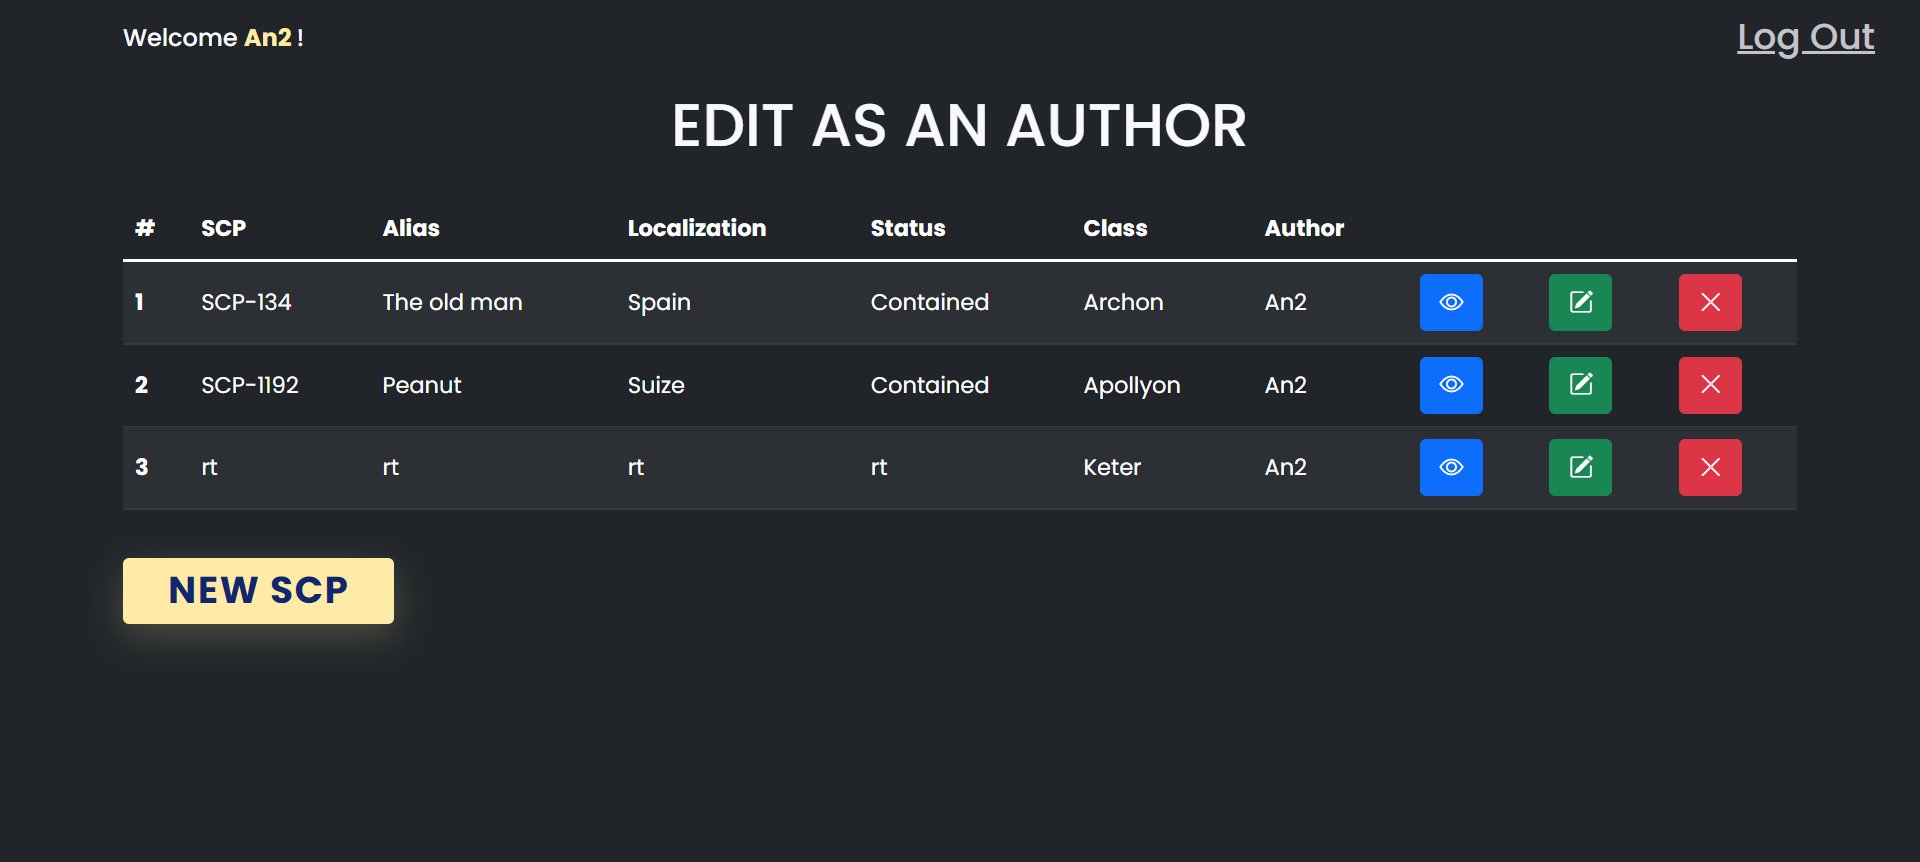
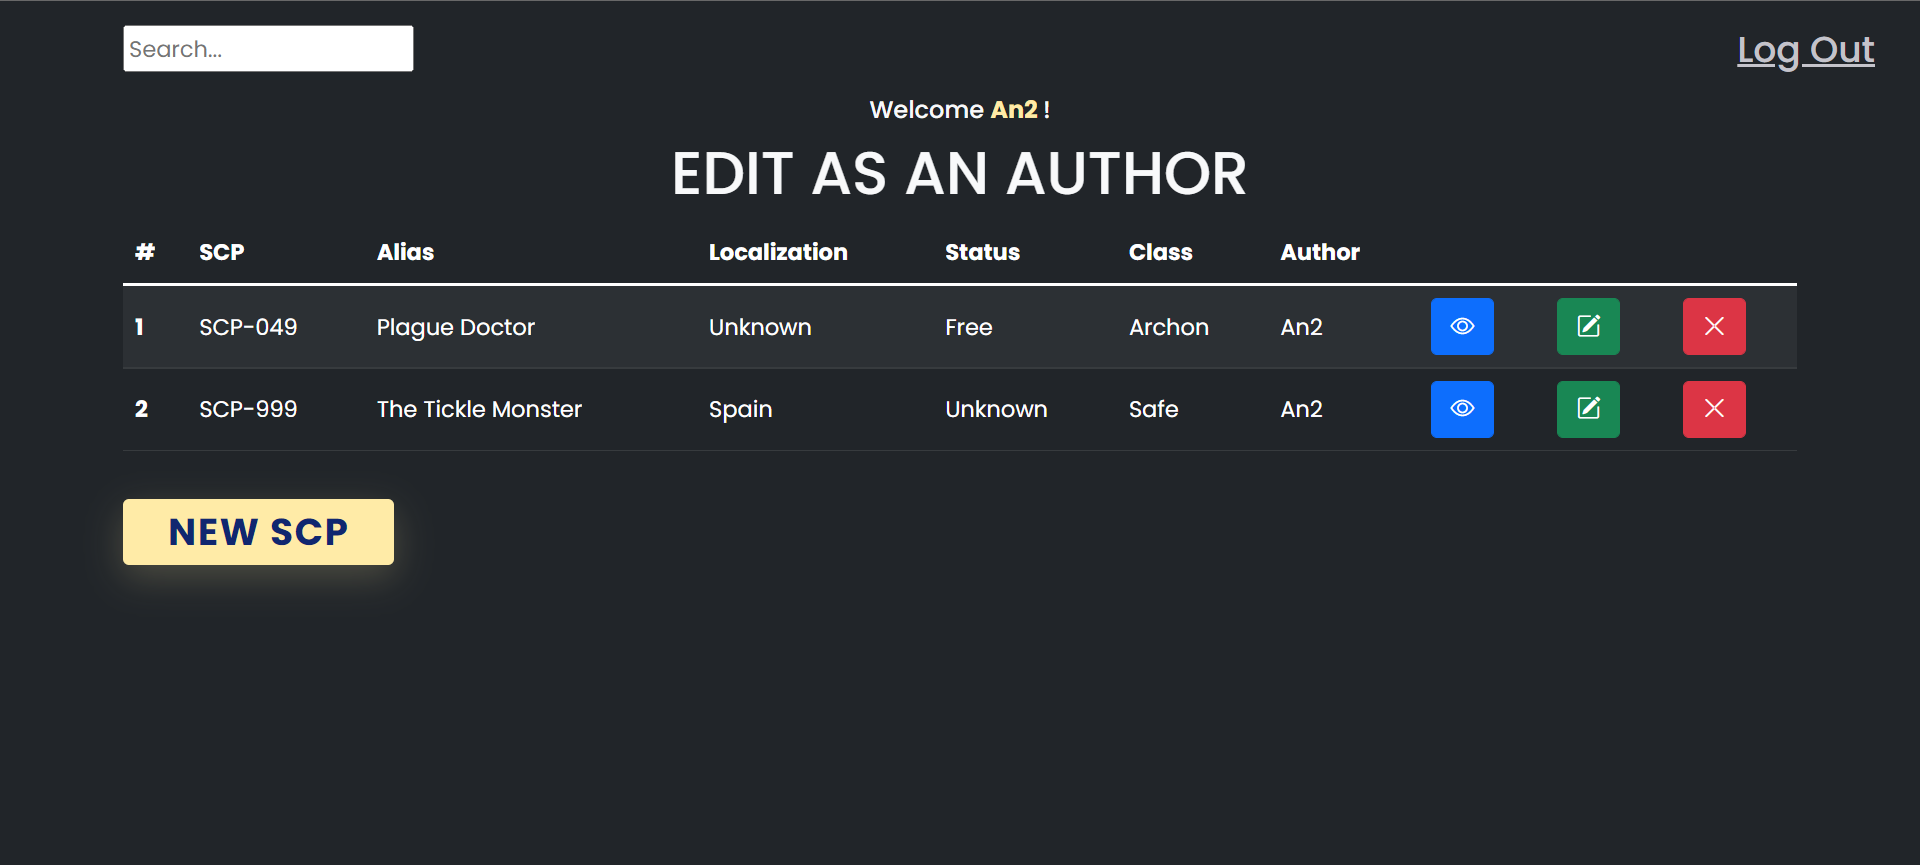
V2.6: Added screenshots and extended README

diff --git a/README.md b/README.md
@@ -20,28 +20,32 @@ Importing the database, you will have these users:
 From default, there are also 3 SCP added, 2 of them from the user An2 and the other one from User1.
 
 ## SCREENSHOTS:
-**Index:**
+### **Index:**
 ![image](./screenshots/index.png)
 
-**Access as a Reader:**
+### **Access as a Reader:**
 ![image](./screenshots/reader.png)
 ![image](./screenshots/reader-in.png)
+![image](./screenshots/reader-search.png)
 
-**Log In & Sign Up:**
+
+### **Log In & Sign Up:**
 ![image](./screenshots/login.png)
 ![image](./screenshots/signup.png)
 
-**Access as an author:**
+### **Access as an author:**
 ![image](./screenshots/author.png)
+![image](./screenshots/author-search.png)
 
-**Access as root:**
+### **Access as root:**
 ![image](./screenshots/rootaccess.png)
+![image](./screenshots/root-search.png)
 
-**DELETE:**
+### **DELETE:**
 ![image](./screenshots/delete.png)
-**INSERT:**
+### **INSERT:**
 ![image](./screenshots/insert.png)
 ![image](./screenshots/insert-2.png)
-**EDIT:**
+### **EDIT:**
 ![image](./screenshots/edit.png)
 ![image](./screenshots/edit-2.png)
